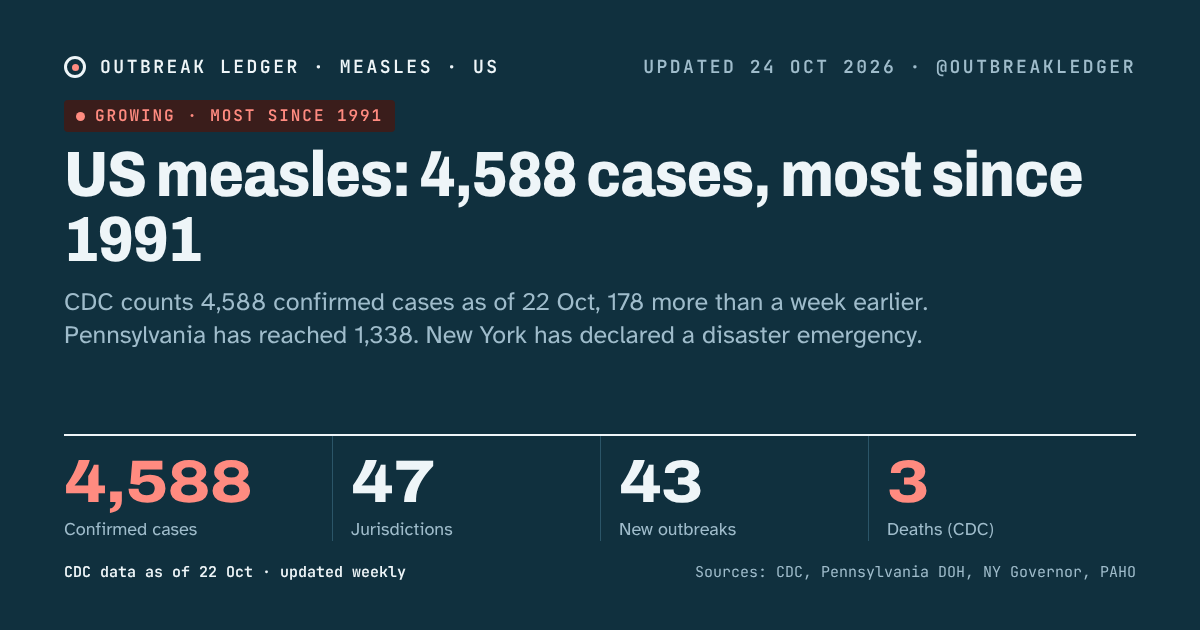
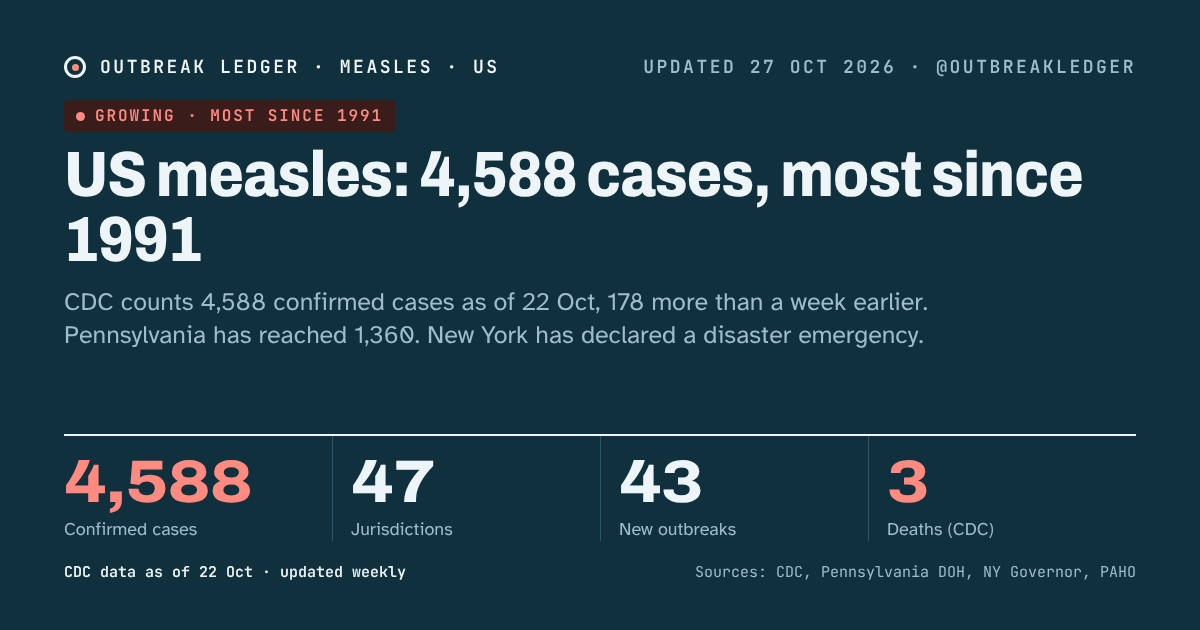
Trackers: Pennsylvania measles 1,360 cases (26 Oct); other trackers checked, no change
Claude-Session: https://claude.ai/code/session_01DjK934MGj4uKY77RiACNyU

Changed region(s): [[0.3083, 0.5127, 0.7708, 0.5429], [0.6167, 0.0905, 0.6475, 0.1206]]

diff --git a/site/measles/share/latest-post.md b/site/measles/share/latest-post.md
@@ -1,5 +1,5 @@
-US measles: CDC counts 4,588 confirmed cases as of 22 Oct, the most since 1991. Pennsylvania's health department reports 1,338 cases in 44 counties and 255 hospitalisations (23 Oct).
+US measles: CDC counts 4,588 confirmed cases as of 22 Oct, the most since 1991. Pennsylvania's health department reports 1,360 cases in 44 counties and 258 hospitalisations (26 Oct).
 
 https://nhlebe1.github.io/ai-scheduler-platform/measles/
 
-Sources: CDC weekly data via Reuters (U.S. News, Yahoo News) and Contagion Live (22 Oct); Pennsylvania Dept. of Health (23 Oct) and AHA News.
+Sources: CDC weekly data via Reuters (U.S. News, Yahoo News) and Contagion Live (22 Oct); Pennsylvania Dept. of Health (26 Oct), Reuters via U.S. News and WTAJ.
